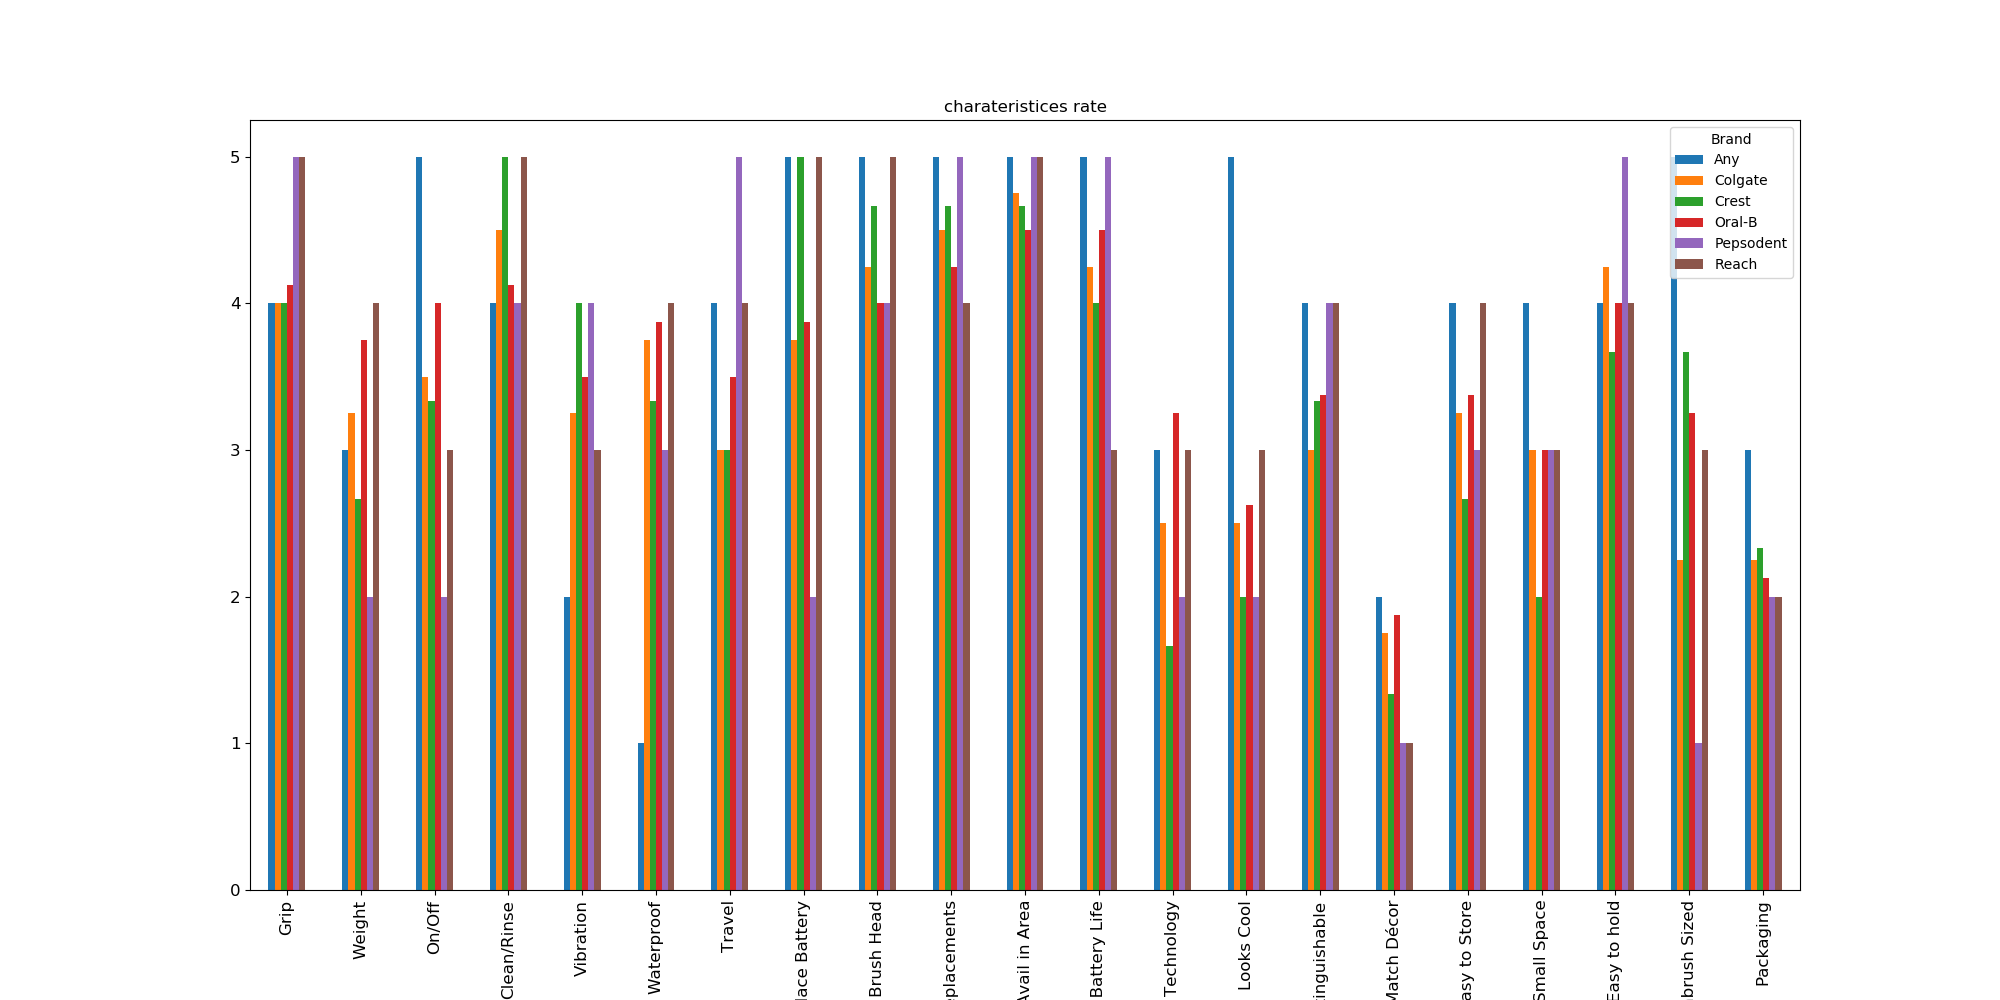
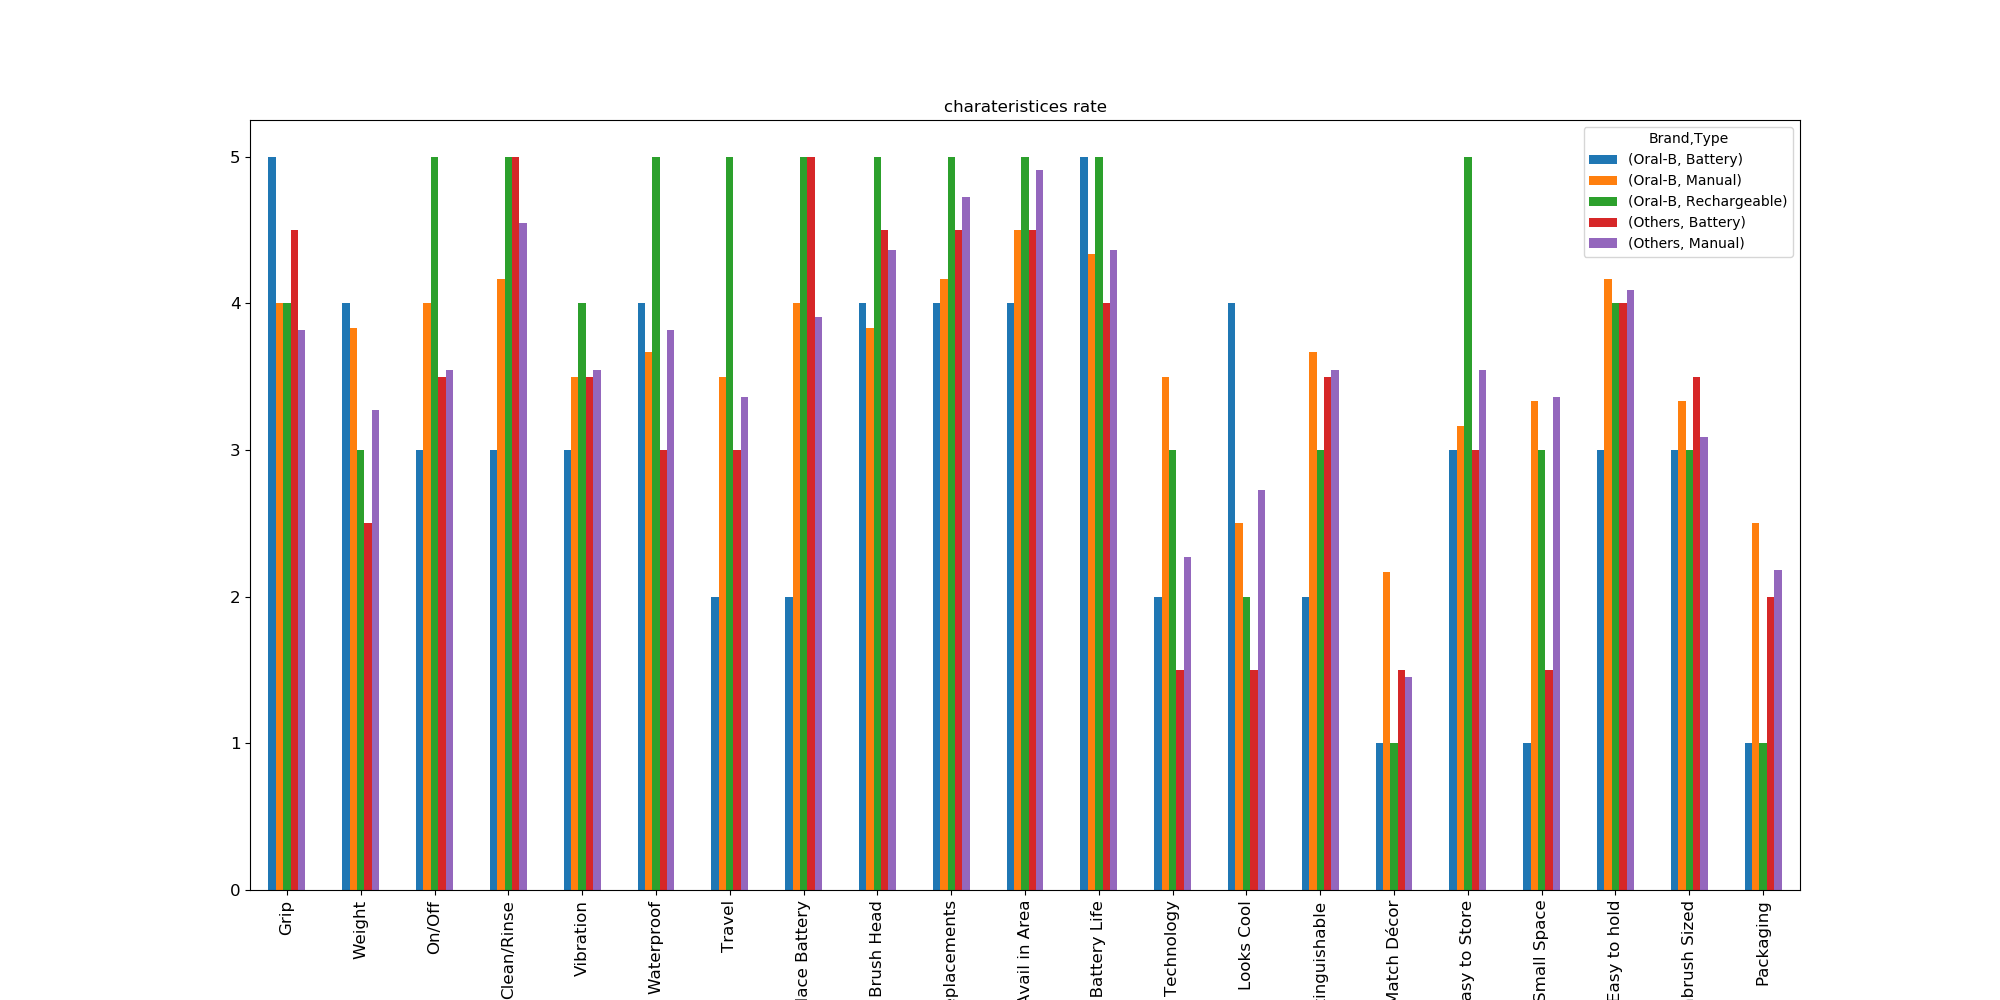
notebook

Changed region(s): [[0.124, 0.124, 0.899, 0.899]]

diff --git a/assignment1/main.py b/assignment1/main.py
@@ -1,10 +1,9 @@
 import pandas as pd
 import numpy as np
 import matplotlib.pyplot as plt
-import re
 
 Brush_Brand = ["Oral-B", "Any", "Reach", "Colgate", "Pepsodent", "Crest"]
-Brush_Type = ["Manual", "Battery"]
+Brush_Type = ["Manual", "Battery", "Rechargeable"]
 
 
 def match_brush_brand(col1, col2):
@@ -13,10 +12,15 @@ def match_brush_brand(col1, col2):
     match_type = None
     for brand in Brush_Brand:
         if (brand in col1) or (brand in str(col2)):
-            match_brand = brand
+            if brand == "Oral-B":
+                match_brand = "Oral-B"
+            else:
+                match_brand = "Others"
     for type in Brush_Type:
         if type.lower() in col1.lower() or type.lower() in str(col2).lower():
             match_type = type
+    if match_brand is None:
+        match_brand = "Others"
     if match_type is None:
         if "Batt" in col1 or "rechargeable" in col1:
             match_type = "Battery"
@@ -24,7 +28,6 @@ def match_brush_brand(col1, col2):
 
 
 Like_Traits = dict()
-
 
 def extract_like_traits(rows):
     for i in rows:
@@ -139,14 +142,15 @@ if __name__ == '__main__':
     # characteristices rating by brand
     df_character_rate = df_all.loc[:, 'Grip':'Packaging']
     df_character_rate['Brand'] = df_all.loc[:, 'Brand']
-    group = df_character_rate.groupby('Brand')
-    df_mean_value=group.apply(pd.DataFrame.mean)
+    df_character_rate['Type'] = df_all.loc[:, 'Type']
+    group = df_character_rate.groupby(['Brand', 'Type'])
+    df_mean_value = group.apply(pd.DataFrame.mean)
     grpd = group.size().to_frame('sample size')
-    ax=grpd.plot.pie(y='sample size', figsize=(5, 5),autopct='%1.1f%%')
+    ax = grpd.plot.pie(y='sample size', figsize=(5, 5), autopct='%1.1f%%')
     ax.get_figure().savefig('img/characteristics_rate_percentage.png')
-    print(grpd,df_mean_value.to_string())
-    ax=df_mean_value.T.plot(kind='bar', title="charateristices rate", figsize=(20, 10), legend=True,
-                 fontsize=12)
+    print(grpd, df_mean_value.to_string())
+    ax = df_mean_value.T.plot(kind='bar', title="charateristices rate", figsize=(20, 10), legend=True,
+                              fontsize=12)
     fig = ax.get_figure()
     fig.savefig('img/characteristics_rate.png')
     plt.show()

diff --git a/test.py b/test.py
@@ -1,0 +1,9 @@
+d1=[3,2,3,2,3,3,3,4]
+d2=[3,3,3,2,3,2,3,4]
+d3=[3,3,4,3,3,3,3,4]
+design=[0.0357,0.1071,0.1785,0.2143,0.0714,0,0.25,0.1429]
+
+score1=sum([i*j for (i, j) in zip(d1, design)])
+score2=sum([i*j for (i, j) in zip(d2, design)])
+score3=sum([i*j for (i, j) in zip(d3, design)])
+print(score1,score2,score3)
